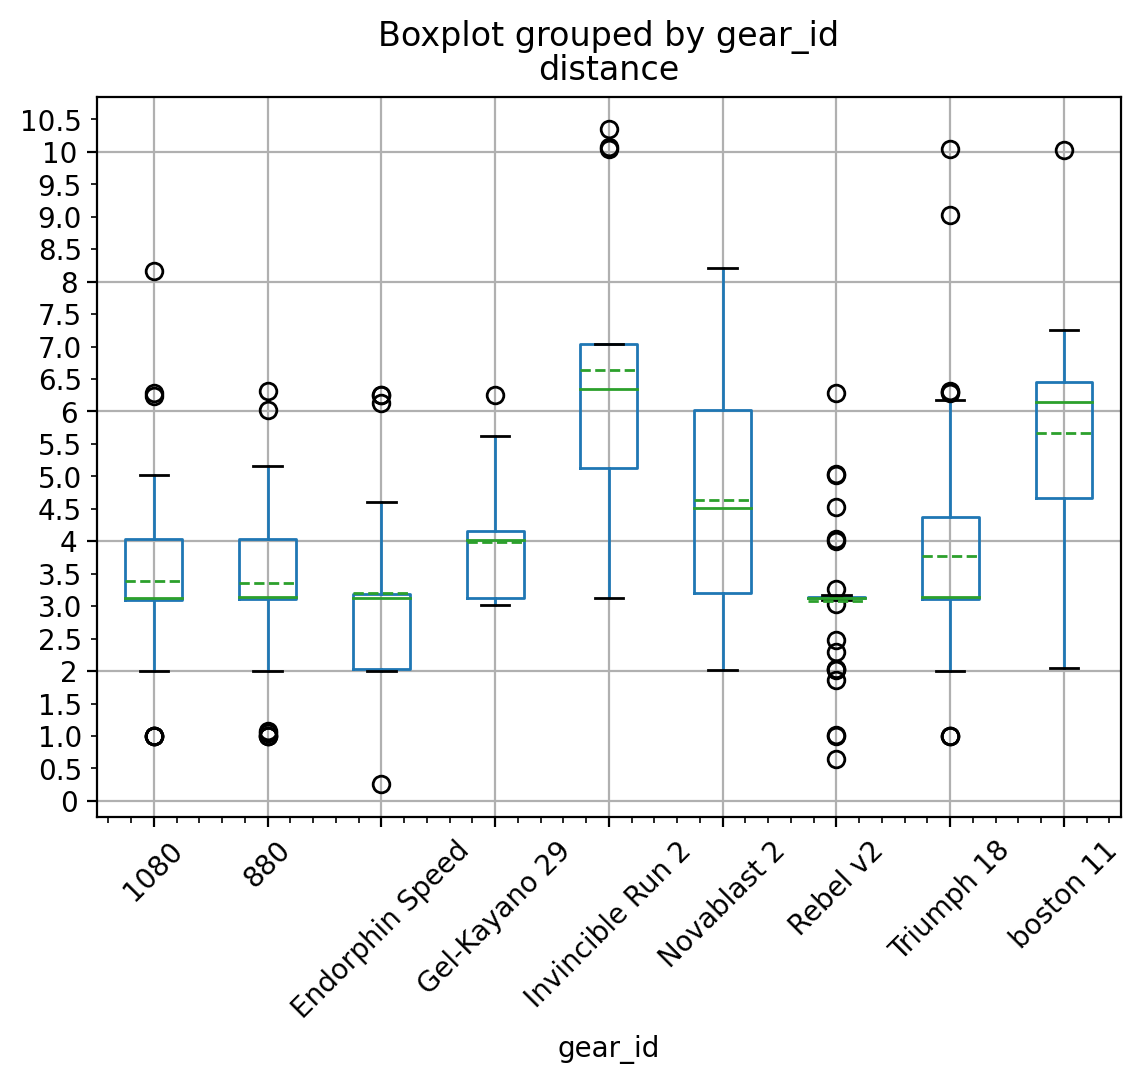
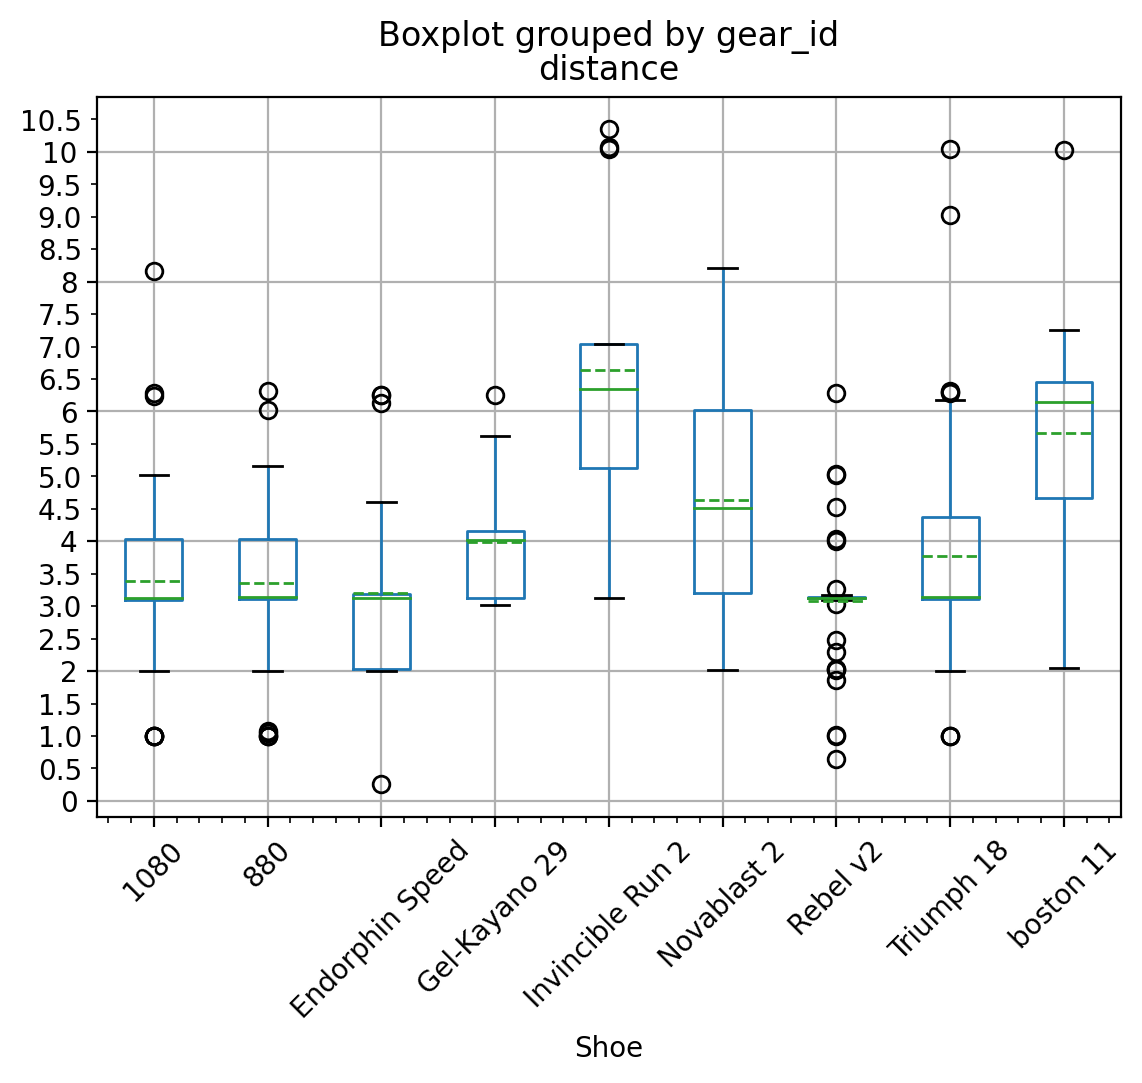
Added login template, updated README.md, cleaned up various things

diff --git a/main.py b/main.py
@@ -10,18 +10,18 @@ import login as login
 
 urllib3.disable_warnings(urllib3.exceptions.InsecureRequestWarning)
 
-auth_url = "https://www.strava.com/oauth/token"
-activities_url = "https://www.strava.com/api/v3/athlete/activities"
+auth_url = 'https://www.strava.com/oauth/token'
+activities_url = 'https://www.strava.com/api/v3/athlete/activities'
 
 payload = {
     'client_id': f'{login.client_id}',
     'client_secret': f'{login.client_secret}',
     'refresh_token': f'{login.refresh_token}',
-    'grant_type': "refresh_token",
+    'grant_type': 'refresh_token',
     'f': 'json'
 }
 
-print("Requesting Token...\n")
+print('Requesting Token...\n')
 res = requests.post(auth_url, data=payload, verify=False)
 access_token = res.json()['access_token']
 
@@ -38,7 +38,7 @@ def loop_through_pages():
     data = []
     while new_results:
         # request a page + 200 results
-        get_strava = requests.get(activities_url, headers=header, params={'per_page': 200, 'page': f"{page}"}).json()
+        get_strava = requests.get(activities_url, headers=header, params={'per_page': 200, 'page': f'{page}'}).json()
         # save the response to new_results to check if its empty or not and close the loop
         new_results = get_strava
         # add our responses to the data array
@@ -79,47 +79,49 @@ df['total_runs'] = df.groupby('id')['gear_id'].transform('count')
 df2 = df.groupby(['gear_id']).sum().reset_index()
 
 # Create a dictionary for storing the original gear_ids and their new names from the gear endpoint
-shoe_lookup = dict()
+model_lookup = dict()
 # Create a list to store the gear_ids of shoes with less than 50 miles in distance
-distance_lookup = []
+shoes_removed = []
 # Loop through each gear_id in df2, make a GET request to the gear endpoint using the current gear_id,
 # save the name of the gear to the dictionary
 for index, row in df2.iterrows():
     original_id = row['gear_id']
-    url = f"https://www.strava.com/api/v3/gear/{original_id}"
+    url = f'https://www.strava.com/api/v3/gear/{original_id}'
     response = requests.get(url, headers=header)
     model = response.json()
     # replaced this with the .replace() method below. will remove later once I am sure what's more efficient.
     # df2.loc[df2['gear_id'] == original_id, 'gear_id'] = model['model_name']
-    shoe_lookup[original_id] = model['model_name']
+    model_lookup[original_id] = model['model_name']
     # Find shoes with less than 50 miles in distance and save them to a list.
     if model['converted_distance'] < 50:
-        distance_lookup.append(model['model_name'])
+        shoes_removed.append(model['model_name'])
+    if model['retired']:
+        shoes_removed.append(model['model_name'])
 
 # replace the gear_ids in the two dataframes with the new values saved to the shoe_lookup dictionary
-df['gear_id'] = df['gear_id'].replace(shoe_lookup)
-df2['gear_id'] = df2['gear_id'].replace(shoe_lookup)
+df['gear_id'] = df['gear_id'].replace(model_lookup)
+df2['gear_id'] = df2['gear_id'].replace(model_lookup)
 
 # Drop the gear_ids in the distance_look up list from df.
 for index, row in df.iterrows():
     x = row['gear_id']
     y = index
-    if x in distance_lookup:
+    if x in shoes_removed:
         df.drop(y, axis=0, inplace=True)
 
 # Drop the gear_ids in the distance_look up list from df2.
 for index, row in df2.iterrows():
     x = row['gear_id']
     y = index
-    if x in distance_lookup:
+    if x in shoes_removed:
         df2.drop(y, axis=0, inplace=True)
 
 pd.options.display.float_format = '{:,.2f}'.format
 pd.set_option('display.max_columns', None)
 df2['avg_pace'] = df2['moving_time'] / df2['distance']
 df2.sort_values(by=['avg_pace'], inplace=True, ascending=False)
-df2['avg_pace_labels'] = pd.to_datetime(df2['avg_pace'], unit='s').dt.strftime("%M:%S")
-df2['moving_time'] = pd.to_datetime(df2['moving_time'], unit='s').dt.strftime("%H:%M:%S")
+df2['avg_pace_labels'] = pd.to_datetime(df2['avg_pace'], unit='s').dt.strftime('%M:%S')
+df2['moving_time'] = pd.to_datetime(df2['moving_time'], unit='s').dt.strftime('%H:%M:%S')
 df2['avg_relative_effort'] = df2['suffer_score'] / df2['total_runs']
 df2['avg_speed'] = df2['average_speed'] / df2['total_runs']
 df2['avg_heartrate'] = df2['average_heartrate'] / df2['total_runs']
@@ -130,9 +132,9 @@ df2 = df2[['gear_id', 'moving_time', 'distance', 'avg_pace', 'total_runs', 'avg_
 # Make a scatter plot comparing shoes by average speed
 fig2, ax2 = plt.subplots(figsize=(8, 8))
 ax2.scatter(df2.avg_speed, df2.gear_id)
-ax2.set_title("Average Speed by Shoe")
-ax2.set_xlabel("MPH")
-ax2.set_ylabel("Shoe")
+ax2.set_title('Average Speed by Shoe')
+ax2.set_xlabel('MPH')
+ax2.set_ylabel('Shoe')
 ax2.set_yticks(df2.gear_id, df2.gear_id)
 fig2.tight_layout()
 plt.savefig('avg_speed_scatter_plot.png', bbox_inches='tight', dpi=200)
@@ -141,22 +143,22 @@ plt.savefig('avg_speed_scatter_plot.png', bbox_inches='tight', dpi=200)
 fig3, ax3 = plt.subplots(figsize=(8, 8))
 ax3.pie(df2.total_runs, autopct=autopct_format(df2.total_runs))
 ax3.legend(labels=df2.gear_id, loc='best', bbox_to_anchor=(.3, .3))
-ax3.set_title("Percentage of Total Runs")
+ax3.set_title('Percentage of Total Runs')
 plt.savefig('total_runs_pie_chart.png', bbox_inches='tight', dpi=200)
 
 # Make a pie chart of total miles
 fig4, ax4 = plt.subplots(figsize=(8, 8))
 ax4.pie(df2.distance, autopct=autopct_format(df2.distance))
 ax4.legend(labels=df2.gear_id, loc='best', bbox_to_anchor=(.3, .3))
-ax4.set_title("Percentage of Total Miles")
+ax4.set_title('Percentage of Total Miles')
 plt.savefig('total_distance_pie_chart.png', bbox_inches='tight', dpi=200)
 
 # Make a bar chart comparing shoes by avg_relative_effort
 fig5, ax5 = plt.subplots(figsize=(8, 8))
 ax5.bar(df2.gear_id, df2.avg_relative_effort)
-ax5.set_title("Average Relative Effort by Shoe")
-ax5.set_ylabel("Average Relative Effort")
-ax5.set_xlabel("Shoe")
+ax5.set_title('Average Relative Effort by Shoe')
+ax5.set_ylabel('Average Relative Effort')
+ax5.set_xlabel('Shoe')
 ax5.set_yticks((0, 20, 40, 60, 80))
 ax5.set_xticks(df2.gear_id, df2.gear_id, rotation=45)
 fig5.tight_layout()
@@ -165,10 +167,10 @@ plt.savefig('avg_relative_effort_bar_chart.png', bbox_inches='tight', dpi=200)
 # Make a scatter plot comparing shoes by avg_pace
 fig6, ax6 = plt.subplots(figsize=(8, 8))
 ax6.scatter(df2.avg_pace, df2.gear_id)
-ax6.set_title("Average Pace by Shoe")
+ax6.set_title('Average Pace by Shoe')
 ax6.set_xticks(df2.avg_pace, df2.avg_pace_labels, rotation=90)
-ax6.set_xlabel("Average Pace")
-ax6.set_ylabel("Shoe")
+ax6.set_xlabel('Average Pace')
+ax6.set_ylabel('Shoe')
 ax6.invert_xaxis()
 ax6.xaxis.set_minor_locator(plticker.LinearLocator())
 fig6.tight_layout()
@@ -177,9 +179,9 @@ plt.savefig('avg_pace_scatter_plot.png', bbox_inches='tight', dpi=200)
 # Make a bar chart comparing shoes by avg_heartrate
 fig7, ax7 = plt.subplots(figsize=(8, 8))
 ax7.bar(df2.gear_id, df2.avg_heartrate)
-ax7.set_title("Average Heartrate by Shoe")
-ax7.set_ylabel("Average Heartate")
-ax7.set_xlabel("Shoe")
+ax7.set_title('Average Heartrate by Shoe')
+ax7.set_ylabel('Average Heartate')
+ax7.set_xlabel('Shoe')
 ax7.set_xticks(df2.gear_id, df2.gear_id, rotation=45)
 fig7.tight_layout()
 plt.savefig('avg_heartrate_bar_chart.png', bbox_inches='tight', dpi=200)
@@ -187,26 +189,32 @@ plt.savefig('avg_heartrate_bar_chart.png', bbox_inches='tight', dpi=200)
 # Make a scatter plot comparing shoes by avg_distance
 fig8, ax8 = plt.subplots(figsize=(8, 8))
 ax8.scatter(df2.avg_distance, df2.gear_id)
-ax8.set_title("Average Distance by Shoe")
-ax8.set_xlabel("Average Distance")
-ax8.set_ylabel("Shoe")
+ax8.set_title('Average Distance by Shoe')
+ax8.set_xlabel('Average Distance')
+ax8.set_ylabel('Shoe')
 fig8.tight_layout()
 plt.savefig('avg_distance_scatter_plot.png', bbox_inches='tight', dpi=200)
 
 # This boxplot is using the un-grouped dataframe (df) instead of the dataframe grouped by gear (df2)
 fig9, ax9 = plt.subplots()
-ax9 = df.boxplot(by="gear_id", column=['suffer_score'], showmeans=True, meanline=True)
+ax9 = df.boxplot(by='gear_id', column=['suffer_score'], showmeans=True, meanline=True)
 plt.xticks(rotation=45)
 plt.minorticks_on()
 ax9.yaxis.set_minor_formatter(plticker.ScalarFormatter())
+ax9.set_xlabel('Shoe')
+ax9.set_ylabel('Relative Effort')
+ax9.set_title('Relative Effort Box Plot')
 plt.savefig('relative_effort_box_plot', bbox_inches='tight', dpi=200)
 
 # This boxplot is using the un-grouped dataframe (df) instead of the dataframe grouped by gear (df2)
 fig10, ax10 = plt.subplots()
-ax10 = df.boxplot(by="gear_id", column=['distance'], showmeans=True, meanline=True)
+ax10 = df.boxplot(by='gear_id', column=['distance'], showmeans=True, meanline=True)
 plt.xticks(rotation=45)
 plt.minorticks_on()
 ax10.yaxis.set_minor_formatter(plticker.ScalarFormatter())
+ax10.set_xlabel('Shoe')
+ax10.set_ylabel('Distance')
+ax10.set_title('Distance Box Plot')
 plt.savefig('distance_box_plot', bbox_inches='tight', dpi=200)
 
 display(df2)

diff --git a/login.example.py b/login.example.py
@@ -1,0 +1,3 @@
+refresh_token = ''
+client_secret = ''
+client_id = ''

diff --git a/README.md b/README.md
@@ -38,6 +38,36 @@ curl --request POST \
 
 - Your refresh token will be in the response as `"refresh_token"`
 
+## How to run the program
+Once you have your `refresh_token`, `client_secret` and `client_id` ready, you can either replace the values
+in the payload array with your values or add them to the `login.example.py` file and remove the "example" from the 
+file name. The login file is imported in the main program and its values are inserted into the payload
+via f-strings.
+
+
+```
+payload = {
+    'client_id': f'{login.client_id}',
+    'client_secret': f'{login.client_secret}',
+    'refresh_token': f'{login.refresh_token}',
+    'grant_type': "refresh_token",
+    'f': 'json'
+}
+```
+### Various notes and "gotchas"
+- The program will filter out any shoes that have less than 50 miles on them or are "retired" in the Strava UI. You can modify the code here to change this behavior:
+```
+    if model['converted_distance'] < 50:
+        shoes_removed.append(model['model_name'])
+    if model['retired']:
+        shoes_removed.append(model['model_name'])
+```
+- The program will look up all of your shoes for all time. If you'd like to set a date range, you can modify the `activities` variable with Strava's supported date params. Example:
+```
+activities_url = "https://www.strava.com/api/v3/athlete/activities?before=1691630694&after=1690853094" 
+```
+- Strava does rate limit the amount of requests you can make to 100 requests per 15 minutes and 1000 requests per day. You can check your usage in your API application dashboard.
+- I admittedly haven't spent much time styling these charts. You may encounter ugly behavior when you reach a certain number of shoes.
 ## Image Examples 
 
 ![](avg_distance_scatter_plot.png)
